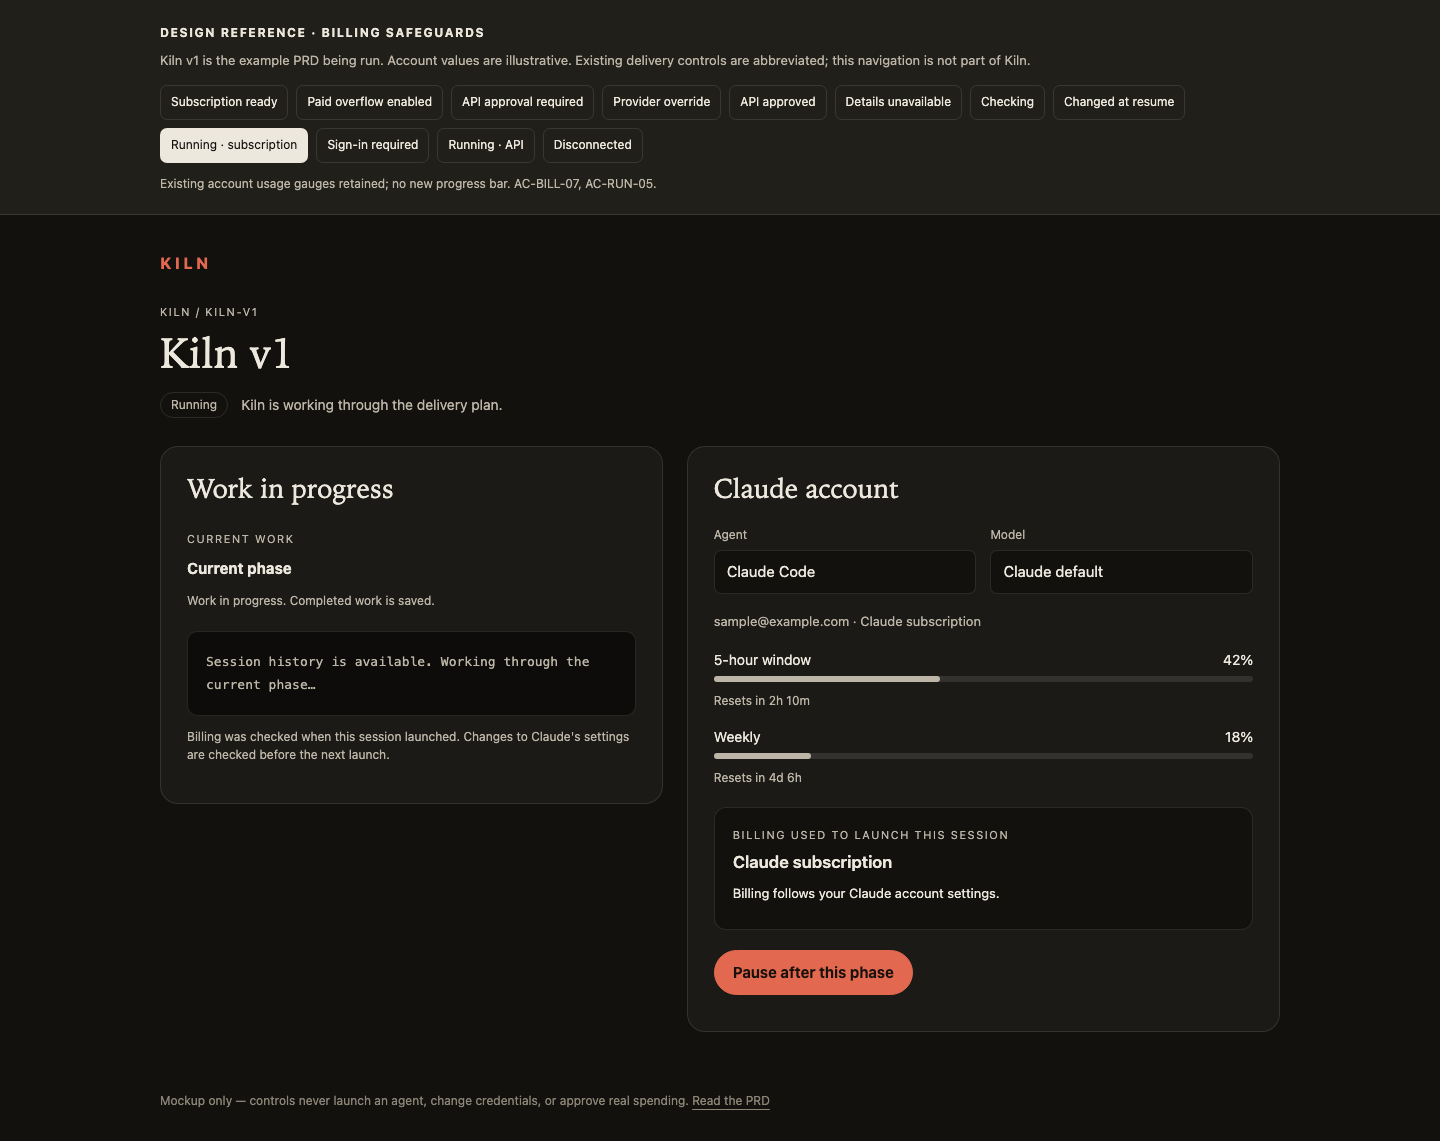
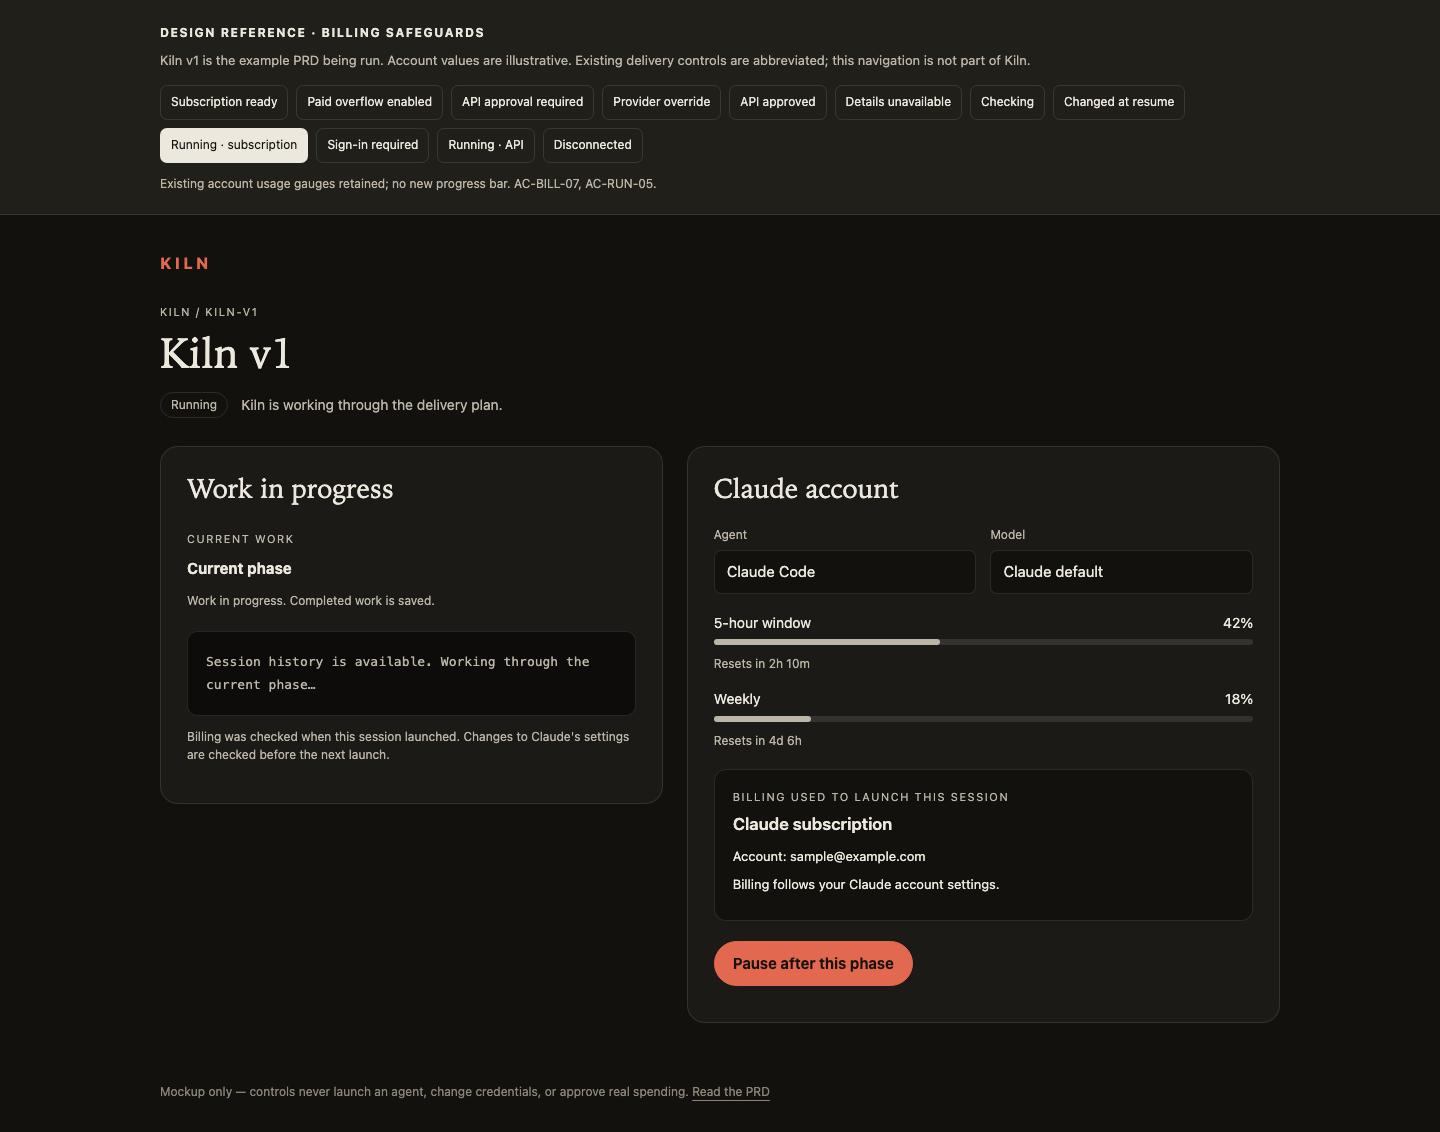
docs(billing safeguards): identify the subscription account in billing summaries
Place the subscription email directly below the billing-route label in ready, paid-overflow, and running mockups. Record the display requirement, including unavailable identity and launch-account behavior. Regenerate the three affected screenshots; twelve browser states confirm subscription identity is shown only for subscription routes.

diff --git a/docs/changes/kiln-billing-safeguards/mockups/kiln-billing-safeguards-mockups.html b/docs/changes/kiln-billing-safeguards/mockups/kiln-billing-safeguards-mockups.html
@@ -57,6 +57,7 @@ main{max-width:1120px;margin:auto;padding:36px 0 60px}.brand{color:var(--red);le
         <div class="eyebrow" id="billing-label">Billing for the next run</div>
         <div class="launch-route" id="prior-route" hidden>Previous run: Claude subscription</div>
         <div class="billing-title"><span id="billing-title"></span><span class="pill" id="billing-pill"></span></div>
+        <p id="billing-account" hidden>Account: sample@example.com</p>
         <p id="billing-description"></p><p class="source" id="billing-source" hidden></p>
         <div class="notice" id="overflow" hidden>Paid usage is enabled in your Claude account. Your account's spending limits apply.<br><a href="https://claude.ai/settings/usage" target="_blank" rel="noreferrer">Open Claude usage settings ↗</a></div>
         <details id="billing-details" hidden><summary>Billing details</summary><p>Claude Code reports a working sign-in, but additional billing details are unavailable. No API or provider override was detected. You can start normally.</p><a href="https://code.claude.com/docs/en/settings" target="_blank" rel="noreferrer">About Claude Code settings ↗</a></details>
@@ -81,15 +82,15 @@ main{max-width:1120px;margin:auto;padding:36px 0 60px}.brand{color:var(--red);le
 <div class="review-footer">Mockup only — controls never launch an agent, change credentials, or approve real spending. <a href="../kiln-billing-safeguards-prd.md">Read the PRD</a></div>
 <script>
 const states={
-  subscription:{name:'Subscription ready',note:'Normal subscription use, including when overflow is not reported. AC-BILL-01–03.',title:'Claude subscription',pill:'Ready',description:'Billing follows your Claude account settings.'},
-  overflow:{name:'Paid overflow enabled',note:'Known account setting; informational notice, no additional approval. AC-BILL-02–03.',title:'Claude subscription',pill:'Ready',description:'Billing follows your Claude account settings.',overflow:true},
+  subscription:{name:'Subscription ready',note:'Normal subscription use, including when overflow is not reported. AC-BILL-01–03.',title:'Claude subscription',pill:'Ready',description:'Billing follows your Claude account settings.',subscription:true},
+  overflow:{name:'Paid overflow enabled',note:'Known account setting; informational notice, no additional approval. AC-BILL-02–03.',title:'Claude subscription',pill:'Ready',description:'Billing follows your Claude account settings.',subscription:true,overflow:true},
   api:{name:'API approval required',note:'An inherited API key requires a deliberate choice. AC-BILL-04–06.',title:'Anthropic API',pill:'Approval needed',description:'Charged separately from Claude subscription usage. Anthropic billing settings apply.',metered:true},
   provider:{name:'Provider override',note:'Detected custom routing, provider name unavailable; existing compatibility checks assumed passed. AC-BILL-04.',title:'Configured provider',pill:'Approval needed',description:'This provider may bill separately from your Claude subscription.',metered:true,custom:true},
   approved:{name:'API approved',note:'Approval stays specific to this execution; untick to clear it before a run. AC-BILL-04–05.',title:'Anthropic API',pill:'Approved',description:'Charged separately from Claude subscription usage. Anthropic billing settings apply.',metered:true,approved:true},
   unknown:{name:'Details unavailable',note:'Working sign-in, no detected override: no warning or approval. Proposed BILLING-002; AC-BILL-02.',title:'Claude Code settings',pill:'',description:'Billing follows your Claude Code settings.',unknown:true},
   checking:{name:'Checking',note:'No AI work starts while fresh billing information is pending. AC-RUN-01.',title:'Checking Claude settings…',pill:'Checking',description:'Reading Claude’s current authentication and workspace settings.',checking:true},
   changed:{name:'Changed at resume',note:'New API override holds the next launch; existing work remains available. AC-BILL-05, AC-RUN-02–03.',title:'Anthropic API',pill:'Approval needed',description:'Charged separately from Claude subscription usage. Anthropic billing settings apply.',metered:true,resume:true},
-  running:{name:'Running · subscription',note:'Existing account usage gauges retained; no new progress bar. AC-BILL-07, AC-RUN-05.',title:'Claude subscription',pill:'',description:'Billing follows your Claude account settings.',running:true},
+  running:{name:'Running · subscription',note:'Existing account usage gauges retained; no new progress bar. AC-BILL-07, AC-RUN-05.',title:'Claude subscription',pill:'',description:'Billing follows your Claude account settings.',subscription:true,running:true},
   signedout:{name:'Sign-in required',note:'Actual authentication failure has a specific fix; billing metadata is a separate concern. AC-BILL-02.',title:'Sign in to Claude Code',pill:'Sign-in required',description:'Claude Code is not signed in.',signedout:true},
   'running-api':{name:'Running · API',note:'Billing used to launch this session is distinguished from the next launch. AC-RUN-04–05.',title:'Anthropic API',pill:'Approved',description:'Charged separately from Claude subscription usage. Anthropic billing settings apply.',metered:true,approved:true,running:true},
   disconnected:{name:'Disconnected',note:'Last-known billing information cannot authorize new work. AC-RUN-05.',title:'Anthropic API',pill:'Last known',description:'Charged separately from Claude subscription usage. Anthropic billing settings apply.',metered:true,approved:true,running:true,disconnected:true}
@@ -115,6 +116,7 @@ function render(){
   show('usage-summary',!s.running&&!s.metered&&!s.checking&&!s.signedout);show('usage-meters',s.running&&!s.metered);
   $('billing-label').textContent=s.disconnected?'Last known billing for this session':s.running?'Billing used to launch this session':'Billing for the next run';
   show('prior-route',s.resume);
+  show('billing-account',s.subscription);show('identity',!s.subscription);
   $('billing-title').textContent=s.title;$('billing-pill').textContent=s.pill;show('billing-pill',Boolean(s.pill));$('billing-description').textContent=s.description;
   $('billing').className='billing'+(s.signedout||s.metered&&!s.approved?' amber':'');
   show('billing-source',s.metered);$('billing-source').innerHTML=s.custom?'Source: <code>ANTHROPIC_BASE_URL</code> in Kiln’s environment':'Source: <code>ANTHROPIC_API_KEY</code> in Kiln’s environment';

diff --git a/docs/changes/kiln-billing-safeguards/kiln-billing-safeguards-prd.md b/docs/changes/kiln-billing-safeguards/kiln-billing-safeguards-prd.md
@@ -46,6 +46,8 @@ The user should see what Kiln knows about the next run's billing without being a
 
 - [ ] **AC-BILL-07 — Existing usage gauges keep their meaning.** The five-hour, weekly, and other account-reported usage gauges remain unchanged where Kiln already displays them. Billing information is text alongside account information, never a new progress or usage bar. Missing billing metadata does not hide independently available usage readings, and no made-up delivery-progress percentage is introduced.
 
+- [ ] **AC-BILL-08 — The subscription account is clear beside its billing settings.** For subscription access, the billing summary includes the subscription account's email directly below the subscription label. If the email is unavailable, it says that the account identity is unavailable. The running view uses the account recorded for that launch, as in AC-RUN-05.
+
 ### Ask Once for Deliberate API Billing
 
 A user intentionally using separately billed access can continue. Approval should be specific enough to prevent an old choice from silently authorizing a different provider or another PRD.
@@ -82,12 +84,12 @@ The interactive [screen gallery](mockups/kiln-billing-safeguards-mockups.html) i
 
 | State | Requirements illustrated |
 |---|---|
-| Subscription ready | AC-BILL-01–03 |
-| Paid overflow enabled | AC-BILL-02–03 |
+| Subscription ready | AC-BILL-01–03, AC-BILL-08 |
+| Paid overflow enabled | AC-BILL-02–03, AC-BILL-08 |
 | API approval required / approved / configured provider override | AC-BILL-04–06 |
 | Additional billing details unavailable / checking settings / sign-in required | AC-BILL-02, AC-RUN-01–02 |
 | Changed billing at Needs you | AC-BILL-05, AC-RUN-02–03 |
-| Running on subscription / running on API / disconnected | AC-BILL-07, AC-RUN-04–05 |
+| Running on subscription / running on API / disconnected | AC-BILL-07–08, AC-RUN-04–05 |
 
 ## Scope and Design Questions
 
